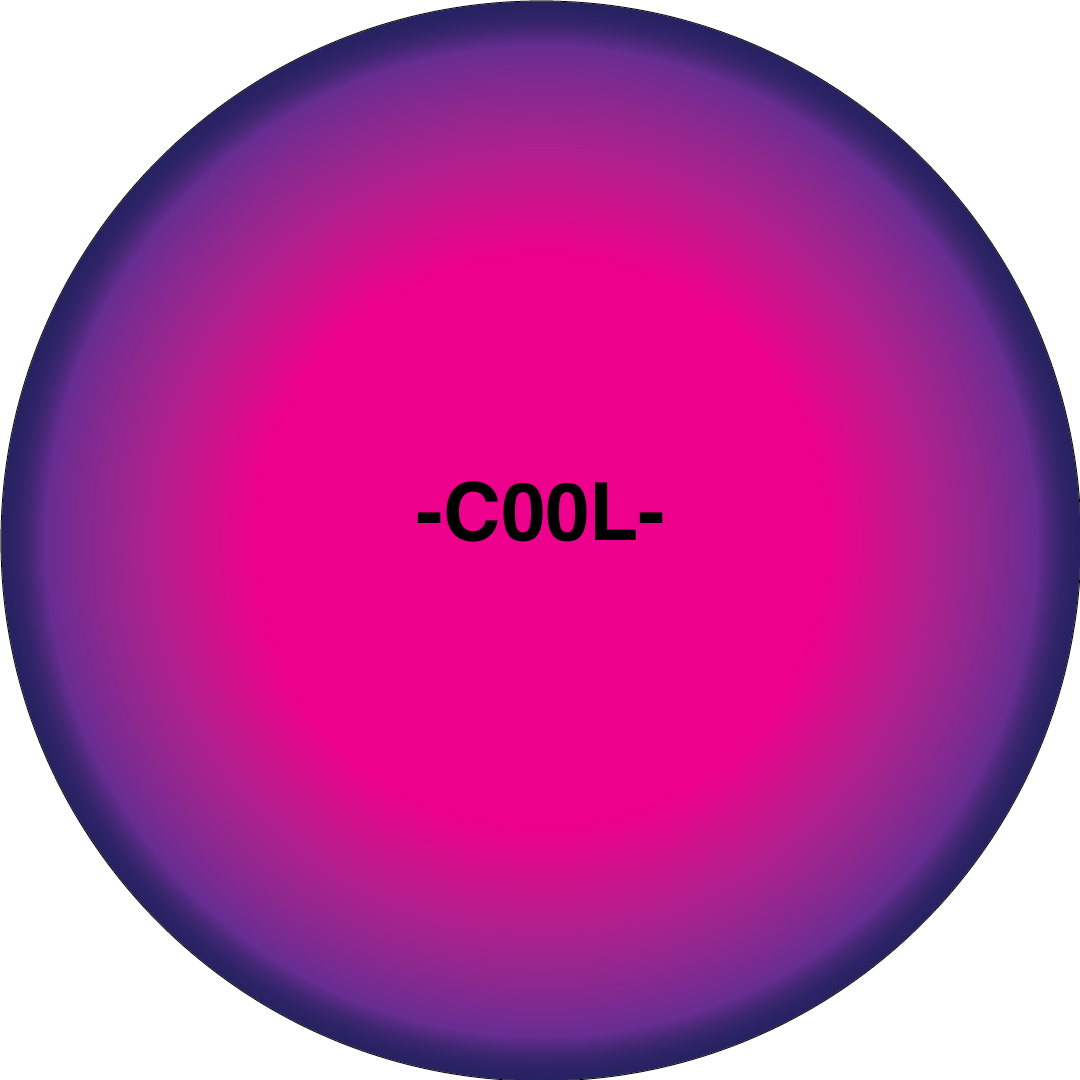
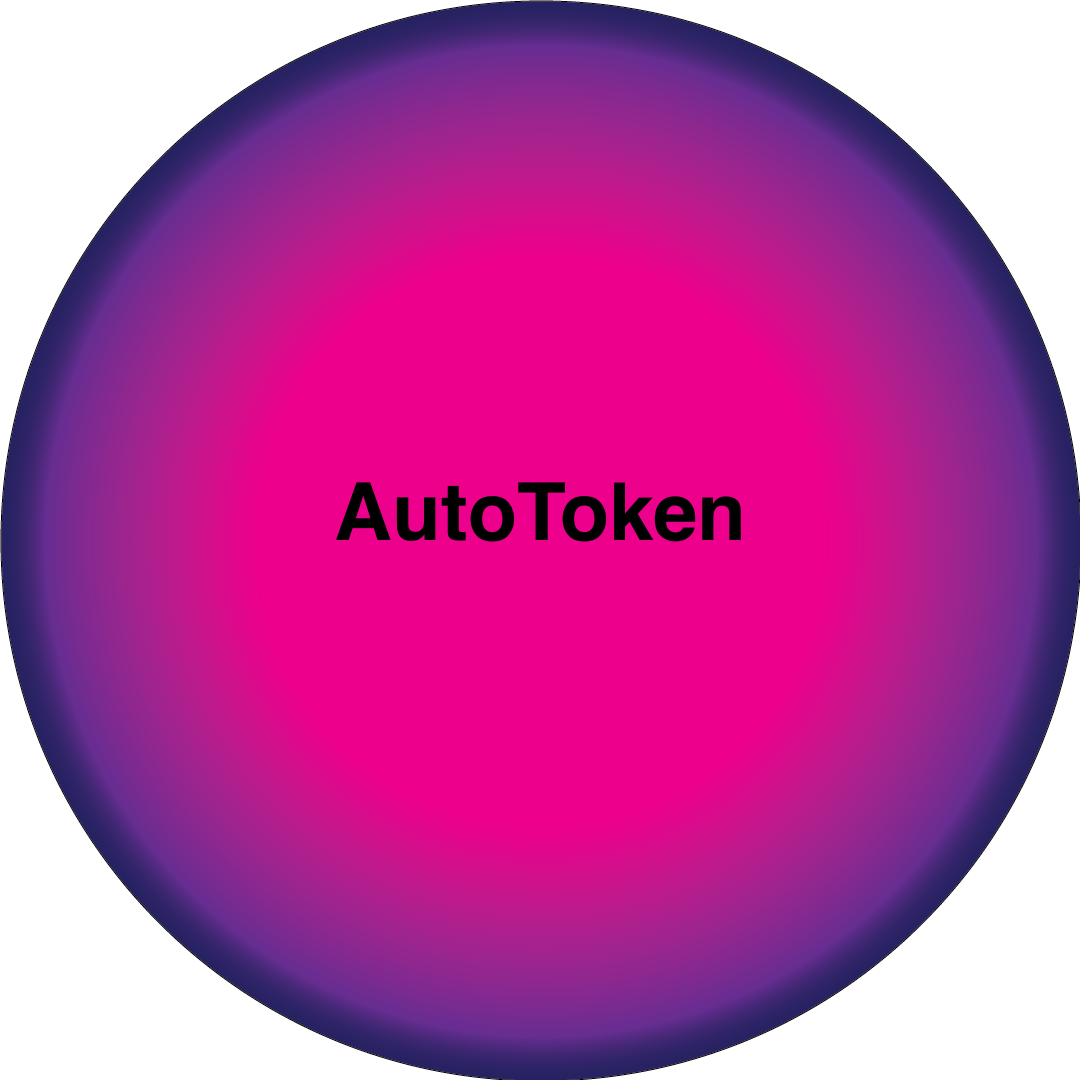
Added function to mint token on the blockchain

Changed region(s): [[0.3056, 0.4278, 0.7028, 0.5194]]

diff --git a/scripts/full-mint-2.js b/scripts/full-mint-2.js
@@ -6,7 +6,7 @@ const rl = readline.createInterface({
   input: process.stdin,
   output: process.stdout
 });
-const { ethers } = require("ethers");
+const { ethers } = require("hardhat");
 const { Octokit } = require("@octokit/rest");
 
 const octokit = new Octokit({ auth: process.env.GITHUB_TOKEN });
@@ -77,6 +77,13 @@ async function uploadFile(content, filepath){
     console.log(`Created commit at ${result.data.commit.html_url}`)
 }
 
+// Connects to contract and mints a token of tokenId on the blockchain
+async function mintToken(tokenId) {
+    const Token = await ethers.getContractFactory("Token");
+    const token = await Token.attach("0x52d23892fa7c493c9723d6Ef845EA689fA34Ea1E");
+    await token.mint(tokenId);
+}
+
 async function main(){
     // Get tokenId from user and pad to 64 hex.
     const tokenId = await getText("Enter token id to mint: ");
@@ -91,19 +98,22 @@ async function main(){
     const buffer = await generateImage(name);
     
     // Save metadata JSON and token image locally
-    fs.writeFileSync(`./images/${tokenId}.png`, buffer);
-    fs.writeFileSync(`./metadata/${paddedId}.json`, JSON.stringify(metadata));
+    //fs.writeFileSync(`./images/${tokenId}.png`, buffer);
+    //fs.writeFileSync(`./metadata/${paddedId}.json`, JSON.stringify(metadata));
     console.log(metadata)
 
     // Convert image and metadata JSON to base64 to upload to github
+    console.log("Uploading metdata...");
     let content = buffer.toString("base64");
-
     await uploadFile(content, `myimages/${tokenId}.png`);
 
     let objJsonStr = JSON.stringify(metadata);
     content = Buffer.from(objJsonStr).toString("base64");
+    await uploadFile(content, `metadata/${paddedId}.json`);
 
-   await uploadFile(content, `metadata/${paddedId}.json`);
+    // Mint the token on the blockchain
+    console.log("Minting token...");
+    await mintToken(tokenId);
 }
 
 main()
